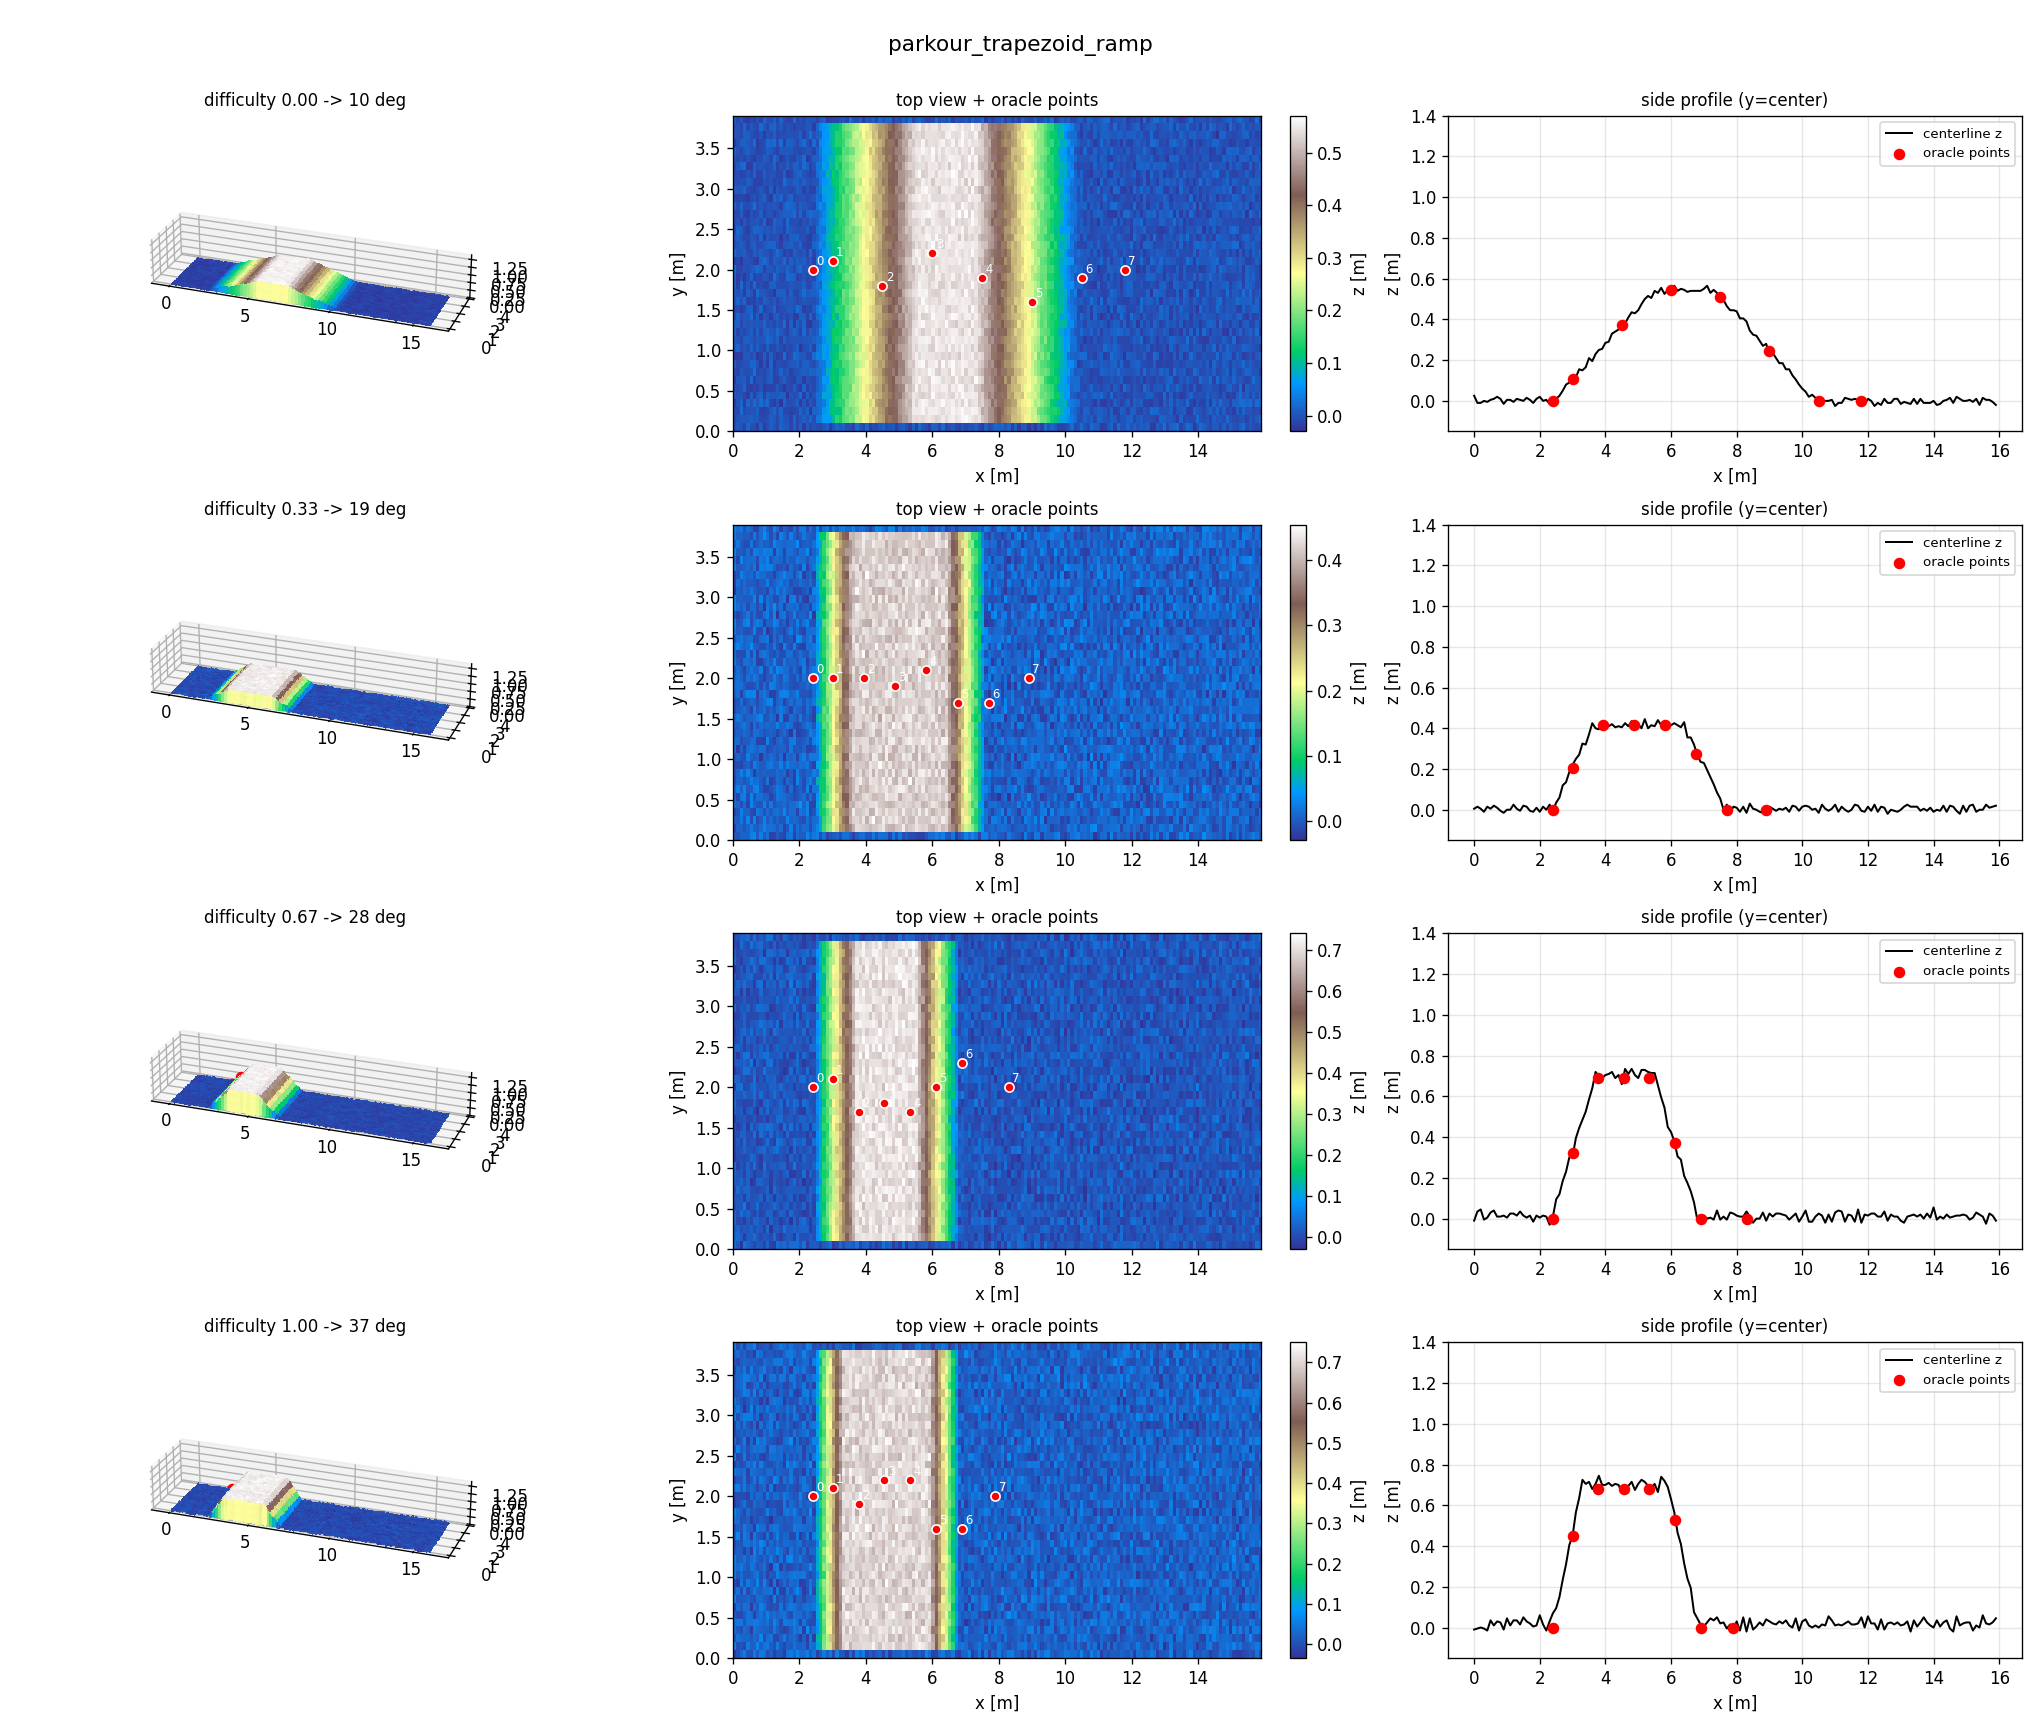
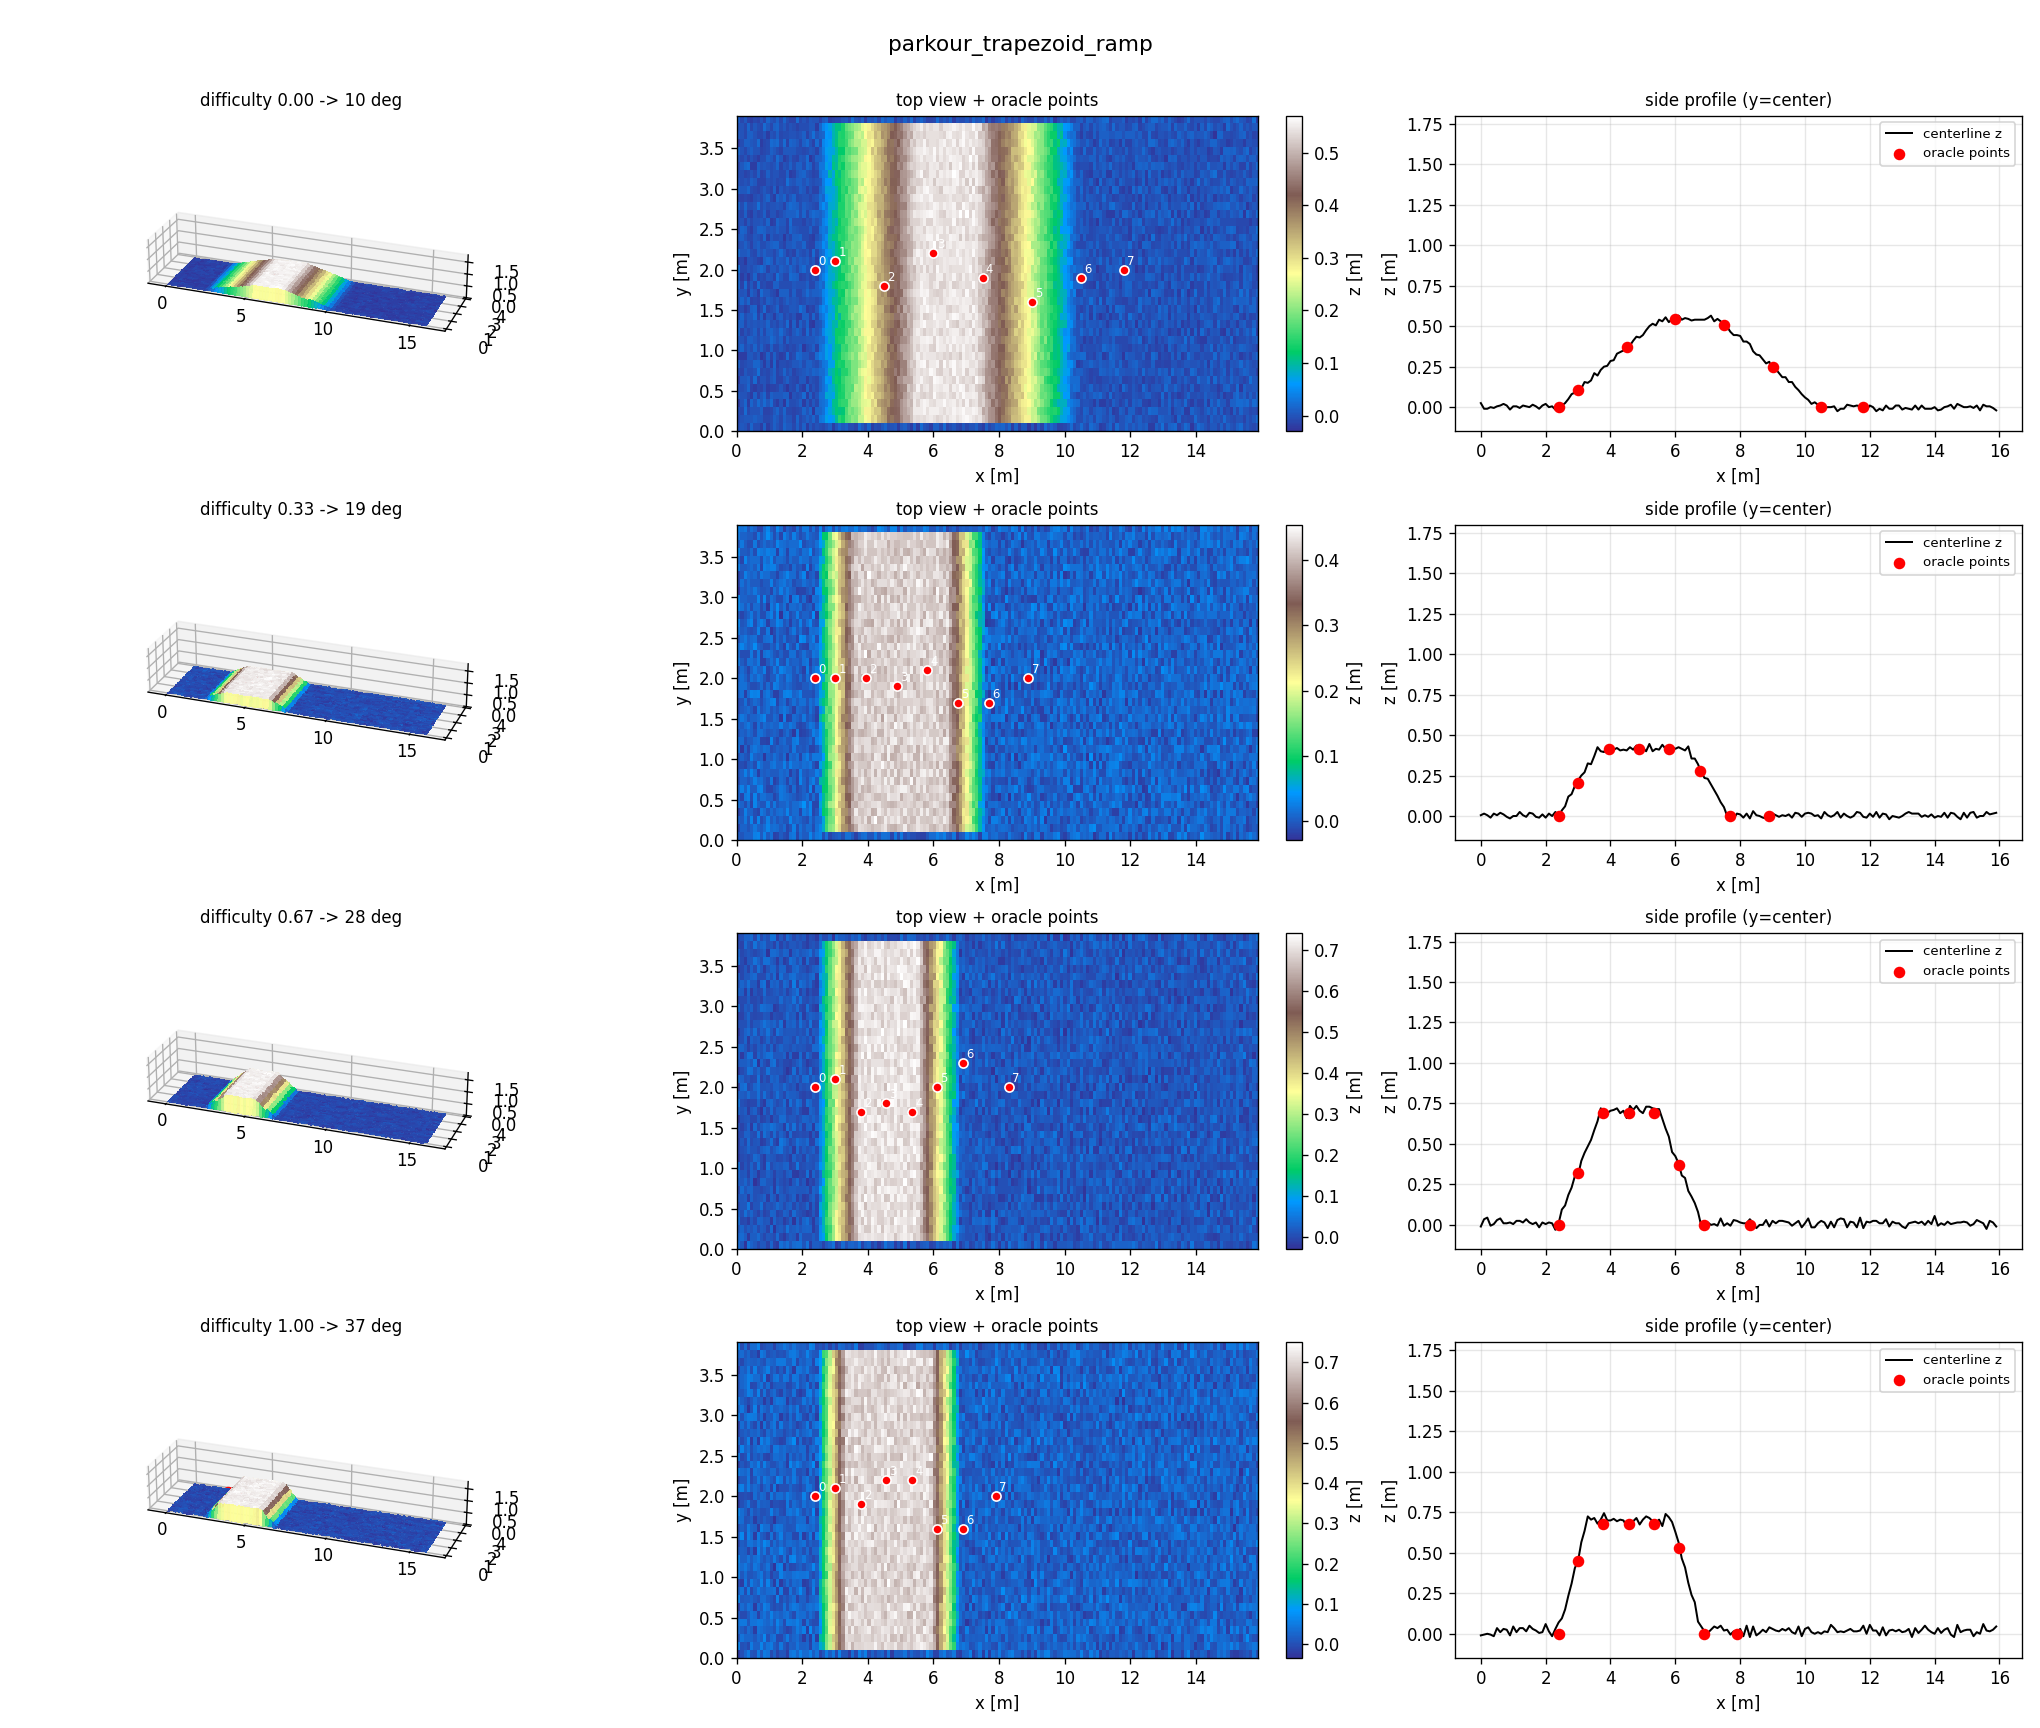
trapezoid_stairs 단 수를 3~7개 랜덤으로 변경
num_steps(5 고정) 를 num_steps_range=(3, 7) 로 바꾸고 타일마다 하나를 뽑는다.
평지 높이는 뽑힌 단 수 * step_height (최대 7단 x 23cm = 1.61m). 단 수가 많고
디딤판이 깊게 뽑혀 타일을 넘치는 조합은 기존 clamp 가 디딤판 깊이를 비율로
줄여 흡수한다. 10개 난이도 재검증(단차 정확, 단 수 3~7 전부 출현) 및
시각화 이미지 갱신.

diff --git a/parkour_isaaclab/terrains/extreme_parkour/extreme_parkour_terrians.py b/parkour_isaaclab/terrains/extreme_parkour/extreme_parkour_terrians.py
@@ -634,8 +634,8 @@ def parkour_trapezoid_stairs_terrain(
 
     - 단차(riser) 는 ``step_height`` (difficulty 수식) 로 정한다. 기본
       '0.05 + 0.18*difficulty' 는 10행 커리큘럼에서 정확히 5, 7, ..., 23cm 가 된다.
-    - 단의 개수는 ``num_steps`` (기본 5개) 로 고정이고, 평지 높이는 자연히
-      num_steps * step_height 가 된다.
+    - 단의 개수는 타일마다 ``num_steps_range`` (기본 3~7개, 양 끝 포함) 에서
+      뽑고, 평지 높이는 자연히 뽑힌 단 수 * step_height 가 된다.
     - 디딤판(tread) 깊이는 step 지형과 같은 방식으로 계단마다 ``x_range`` 에서
       따로 뽑는다 (오르막/내리막 각각 독립 샘플). step 지형의 x_range (0.3, 1.5)
       를 그대로 쓰면 왕복 10칸이 타일을 넘칠 수 있어 기본값을 (0.3, 0.8) 로 줄였다.
@@ -655,21 +655,22 @@ def parkour_trapezoid_stairs_terrain(
     height_field_raw[0:platform_len, :] = platform_height
 
     step_height = round(eval(cfg.step_height, {"difficulty": difficulty}) / cfg.vertical_scale)
+    num_steps = np.random.randint(cfg.num_steps_range[0], cfg.num_steps_range[1] + 1)
     dis_x_min = round(cfg.x_range[0] / cfg.horizontal_scale)
     dis_x_max = round(cfg.x_range[1] / cfg.horizontal_scale)
     plateau_len = round(np.random.uniform(*cfg.plateau_len_range) / cfg.horizontal_scale)
 
     # 디딤판 깊이를 미리 다 뽑고, 넘치면 비율로 줄여 타일에 맞춘다.
     end_margin = round(cfg.end_margin / cfg.horizontal_scale)
-    treads = np.random.randint(dis_x_min, dis_x_max, size=2 * cfg.num_steps)
+    treads = np.random.randint(dis_x_min, dis_x_max, size=2 * num_steps)
     avail = width_pixels - platform_len - plateau_len - end_margin
     if treads.sum() > avail:
         treads = np.maximum((treads * (avail / treads.sum())).astype(int), 2)
 
-    plateau_height = cfg.num_steps * step_height
+    plateau_height = num_steps * step_height
     dis_x = platform_len
     # 오르막 계단: i번째 단의 윗면 높이는 (i+1)*step_height
-    for i in range(cfg.num_steps):
+    for i in range(num_steps):
         depth = treads[i]
         height_field_raw[dis_x:dis_x + depth, y_lo:y_hi] = (i + 1) * step_height
         dis_x += depth
@@ -678,8 +679,8 @@ def parkour_trapezoid_stairs_terrain(
     height_field_raw[up_end:up_end + plateau_len, y_lo:y_hi] = plateau_height
     dis_x = up_end + plateau_len
     # 내리막 계단: 마지막 단에서 바닥(0)에 닿는다
-    for i in range(cfg.num_steps):
-        depth = treads[cfg.num_steps + i]
+    for i in range(num_steps):
+        depth = treads[num_steps + i]
         height_field_raw[dis_x:dis_x + depth, y_lo:y_hi] = plateau_height - (i + 1) * step_height
         dis_x += depth
     down_end = dis_x

diff --git a/parkour_isaaclab/terrains/extreme_parkour/config/parkour.py b/parkour_isaaclab/terrains/extreme_parkour/config/parkour.py
@@ -135,14 +135,14 @@ EXTREME_PARKOUR_TERRAINS_CFG = ParkourTerrainGeneratorCfg(
                         plateau_len_range=(1.5, 3.0),
                         plateau_height_range=(0.4, 0.8),
                         ),
-        # 사다리꼴 계단: 계단 오르막(5단) - 평지 - 계단 내리막(5단).
+        # 사다리꼴 계단: 계단 오르막 - 평지 - 계단 내리막 (단 수는 타일마다 3~7개 랜덤).
         # 단차는 10행 커리큘럼에서 정확히 5,7,...,23cm. 디딤판 깊이는 step 지형처럼
         # 계단마다 x_range 에서 랜덤. slope_threshold 는 계단 직각화를 위해 0.3.
         "parkour_trapezoid_stairs": ExtremeParkourTrapezoidStairsTerrainCfg(
                         proportion=0.0,
                         apply_roughness=True,
                         step_height='0.05 + 0.18*difficulty',
-                        num_steps=5,
+                        num_steps_range=(3, 7),
                         x_range=(0.3, 0.8),
                         course_width=5.0,
                         plateau_len_range=(1.5, 3.0),

diff --git a/parkour_isaaclab/terrains/extreme_parkour/extreme_parkour_terrains_cfg.py b/parkour_isaaclab/terrains/extreme_parkour/extreme_parkour_terrains_cfg.py
@@ -193,8 +193,11 @@ class ExtremeParkourTrapezoidStairsTerrainCfg(ExtremeParkourRoughTerrainCfg):
     step_height: str = '0.05 + 0.18*difficulty'
     """단차 높이 (m). 10행 커리큘럼(difficulty = row/9)에서 5, 7, ..., 23cm 가 된다."""
 
-    num_steps: int = 5
-    """오르막 계단의 단 수 (내리막도 같은 수). 평지 높이 = num_steps * step_height."""
+    num_steps_range: tuple[int, int] = (3, 7)
+    """오르막 계단 단 수의 랜덤 범위 (양 끝 포함, 내리막도 같은 수).
+    타일마다 하나를 뽑으며, 평지 높이 = 뽑힌 단 수 * step_height 가 된다.
+    (최대 7단 x 23cm = 1.61m. 단 수가 많고 디딤판이 깊게 뽑혀 타일을 넘치면
+    디딤판 깊이를 비율로 줄여 맞춘다.)"""
 
     x_range: tuple[float, float] = (0.3, 0.8)
     """디딤판(tread) 깊이의 랜덤 범위 (m). step 지형의 x_range(0.3, 1.5) 방식을
